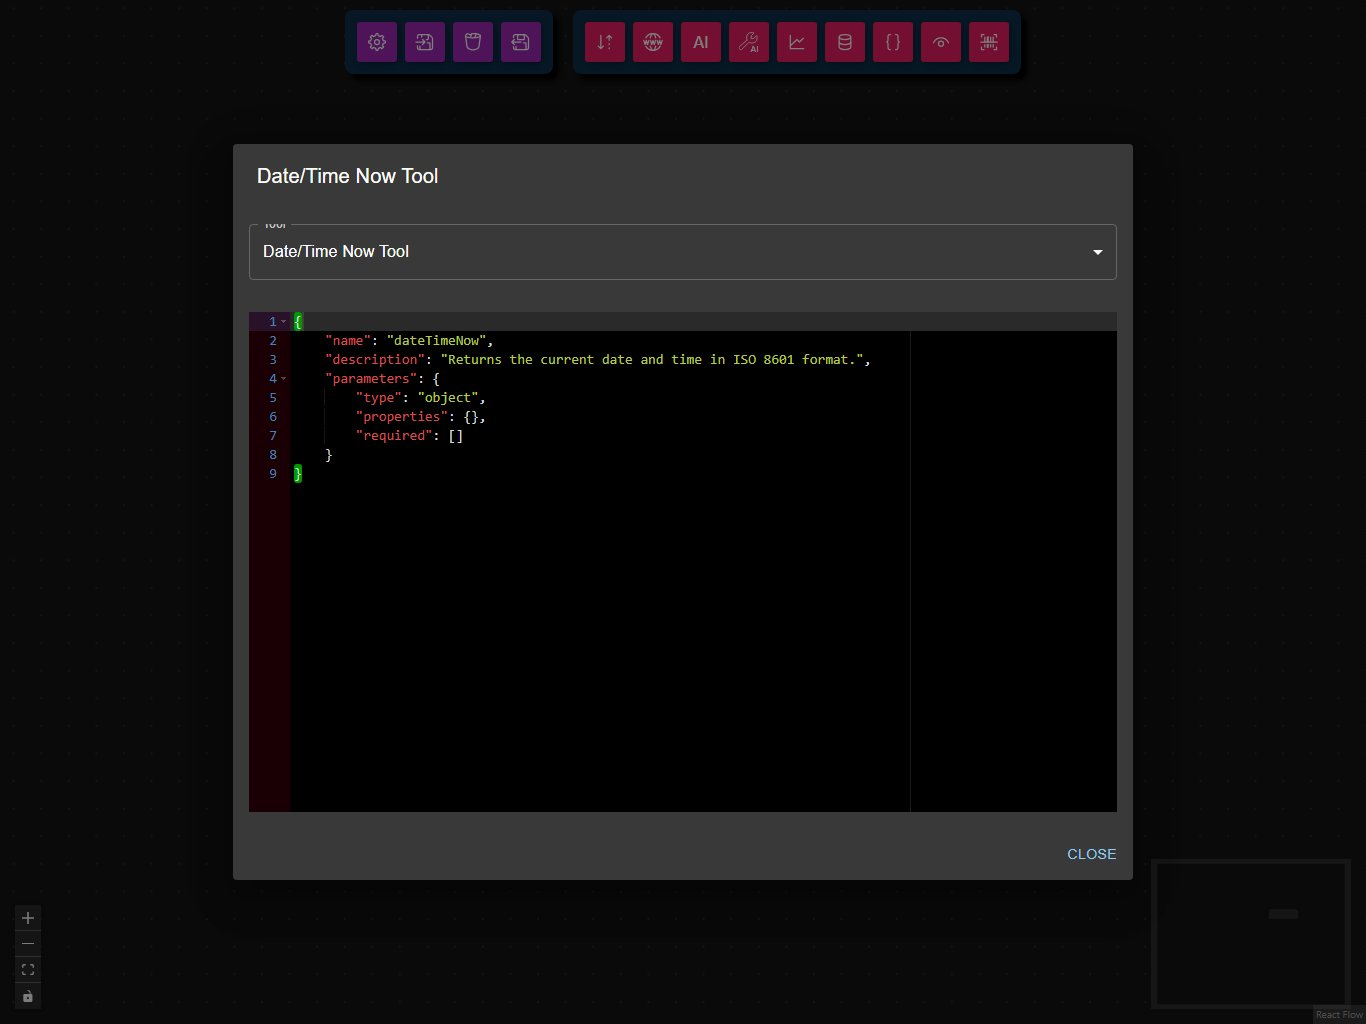
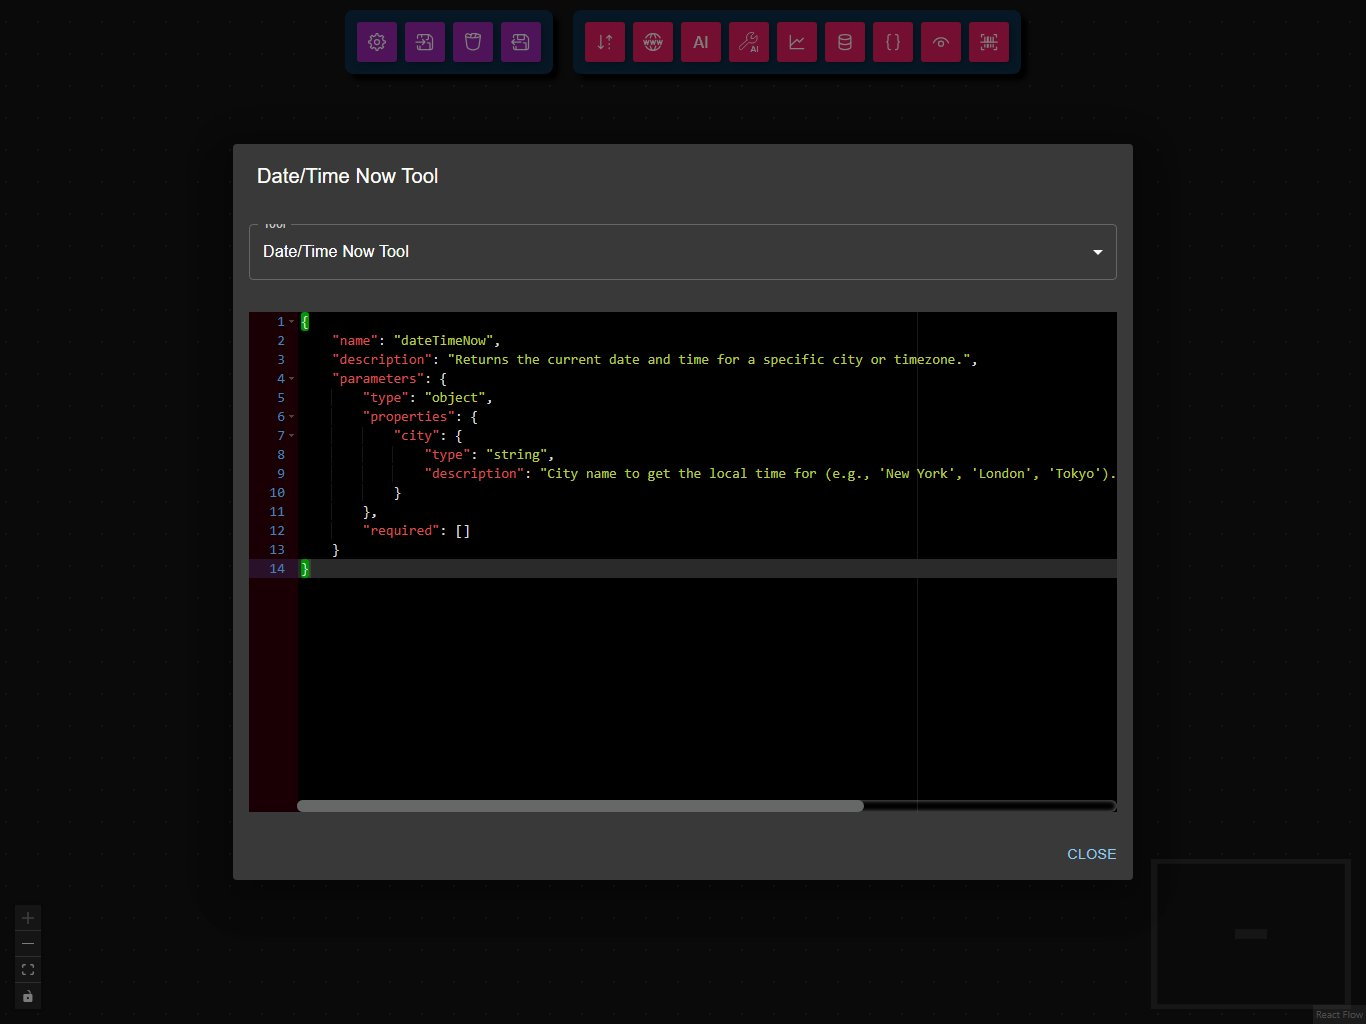
docs updates

diff --git a/docs/src/components/YouTubePreview/style.css b/docs/src/components/YouTubePreview/style.css
@@ -15,6 +15,7 @@
     cursor: pointer;
     border-radius: 8px;
     display: block;
+    object-fit: cover;
 }
 
 .youtube-preview-play {

diff --git a/README.md b/README.md
@@ -1,4 +1,4 @@
-# <img src="docs/static/img/logo.svg" alt="Agentic Signal" width="32" height="32" style="vertical-align: middle;"> Agentic Signal
+# [<img src="docs/static/img/logo.svg" alt="Agentic Signal" width="32" height="32">](https://code-forge-temple.github.io/agentic-signal/) Agentic Signal
 
 **Visual AI Workflow Automation Platform with Local Agent Intelligence**
 
@@ -22,7 +22,7 @@
 
 ## 🎬 Demo Video  
 
-[![62zk8zE6UJI](https://img.youtube.com/vi/62zk8zE6UJI/0.jpg)](https://www.youtube.com/watch?v=62zk8zE6UJI)
+[<img src="https://img.youtube.com/vi/62zk8zE6UJI/maxresdefault.jpg" alt="Watch Demo Video" width="600">](https://www.youtube.com/watch?v=62zk8zE6UJI)
 
 ## ✨ Features
 

diff --git a/docs/docs/nodes/ai/tools/date-time-now.md b/docs/docs/nodes/ai/tools/date-time-now.md
@@ -13,9 +13,11 @@ import TabItem from '@theme/TabItem';
 
 <Tabs>
     <TabItem value="inputs" label="Inputs" default>
-        - *None required*
+        - `city` ¹ (string): Name of the city to fetch the time for (e.g., `"New York"`).  
 
         ![Weather Dashboard Workflow](/img/nodes/ai-tool/datetime-now-tool.jpg)
+        ___
+        (1) Provided by the [AI Data Processing Node](/docs/nodes/ai/llm-process) as a result of processing it's input.
     </TabItem>
     <TabItem value="outputs" label="Outputs">
         - `iso`: Current date and time in ISO 8601 format (e.g., `2024-06-10T12:34:56.789Z`)
